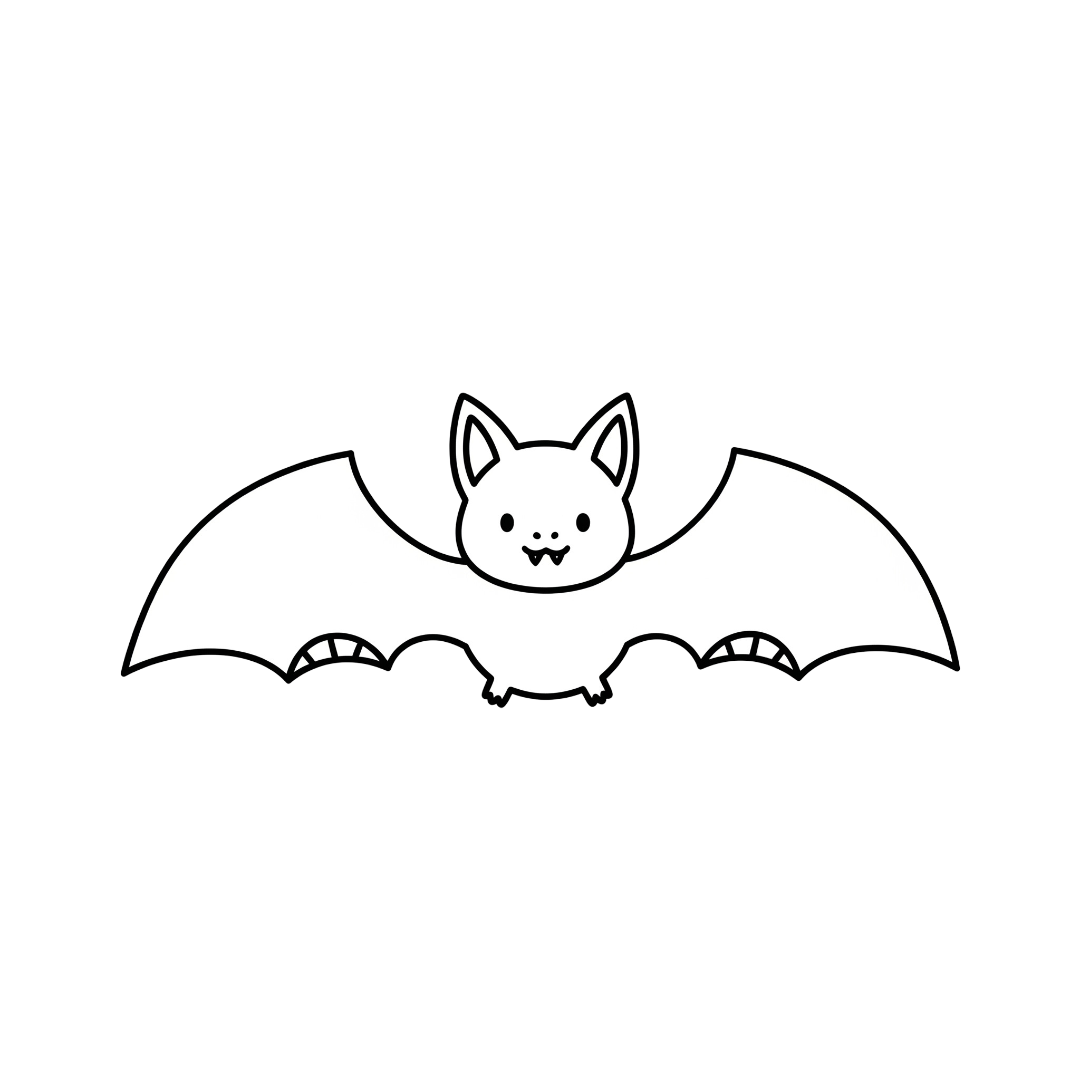
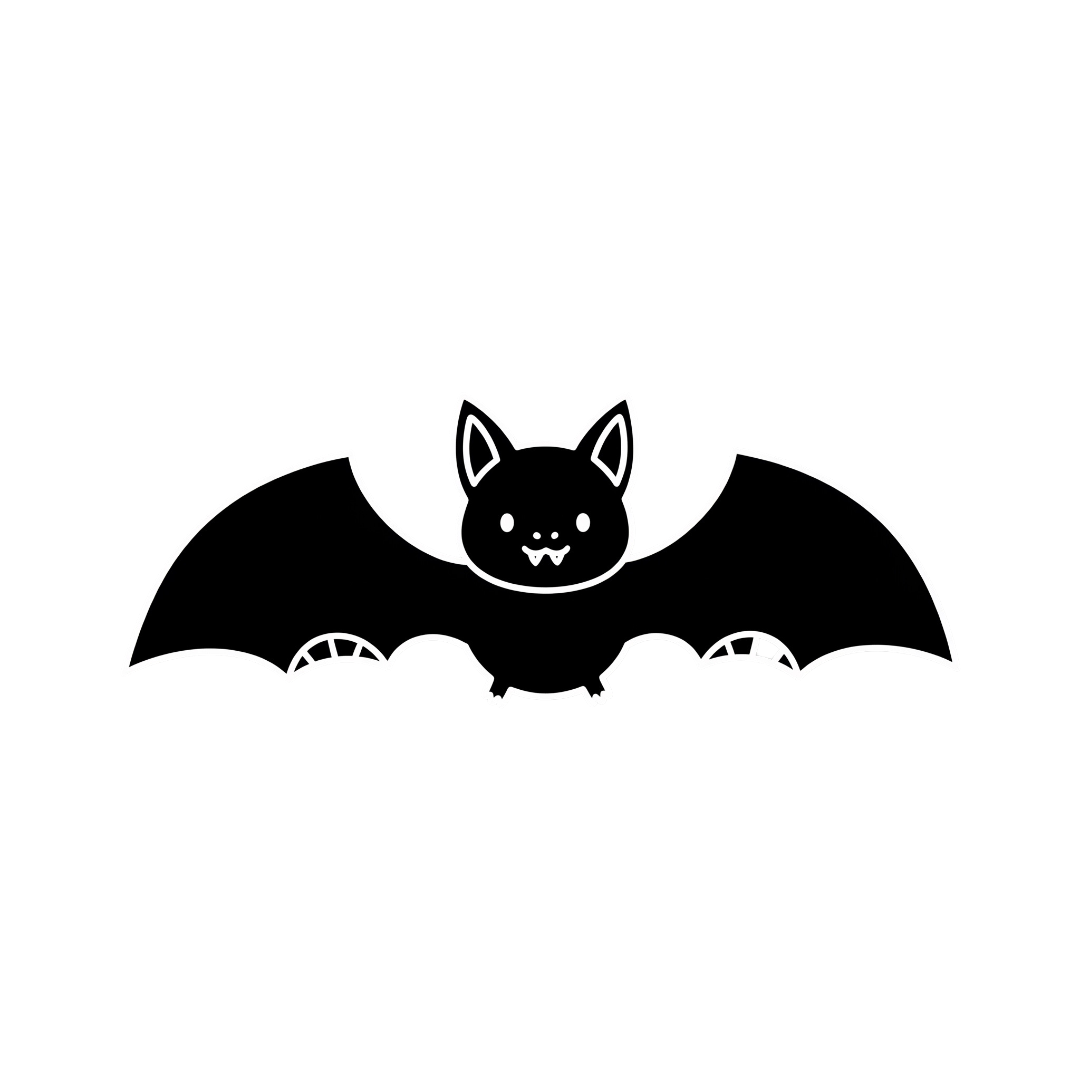
adiciona morcegos

Changed region(s): [[0.0917, 0.3667, 0.8861, 0.6722]]

diff --git a/calculo-soro.html b/calculo-soro.html
@@ -7,84 +7,25 @@
     <title>Cálculo do soro</title>
 </head>
 <body>
+    
     <main>
-        <h1 class="title">PROFILAXIA DA RAIVA HUMANA</h1>
+        <h1 class="title">CÁLCULO DO SORO</h1>
         <section class="form-container">
             
             <form id="caso" method="get">
-                <fieldset id="animal-agressor">
-                    <legend>ANIMAL AGRESSOR</legend>
-                    <div class="choice">  
-                        <input id="cao-gato-sem-sinais" type="radio" name="animal-agressor" value="cao-gato-sem-sinais">
-                        <label for="cao-gato-sem-sinais"><b>CÃO OU GATO</b> - ANIMAL PASSÍVEL DE OBSERVAÇÃO POR 10 DIAS E SEM SINAIS SUGESTIVOS DE RAIVA</label>
-                    </div>
-                    
-                    <div class="choice">
-                        <input id="cao-gato-com-sinais" type="radio" name="animal-agressor" value="cao-gato-com-sinais">
-                        <label for="cao-gato-com-sinais"><b>CÃO OU GATO</b> - ANIMAL NÃO PASSÍVEL DE OBSERVAÇÃO POR 10 DIAS OU COM SINAIS SUGESTIVOS DE RAIVA</label>
-                    </div>
+                <label for="tipoSoro">Tipo de soro:</label>
+                    <select id="tipoSoro">
+                    <option value="heterologo">Heterólogo (animal)</option>
+                    <option value="homologo">Homólogo (humano)</option>
+                    </select>
 
-                    <div class="choice">
-                        <input id="interesse-economico" type="radio" name="animal-agressor" value="interesse-economico">
-                        <label for="interesse-economico"><b>MAMÍFERO DOMÉSTICO DE INTERESSE ECONÔMICO</b> (bovídeos, equídeos, caprinos, suínos e ovinos)</label>
-                    </div>
+                    <label for="peso">Peso do paciente (kg):</label>
+                    <input type="number" id="peso" placeholder="Digite o peso em kg" required>
 
-                    <div class="choice">
-                        <input id="mamiferos-silvestres" type="radio" name="animal-agressor" value="mamiferos-silvestres">
-                        <label for="mamiferos-silvestres"><b>MAMÍFEROS SILVESTRES</b> (ex.: raposa, macaco, sagui)</label>
-                    </div>
+                    <button onclick="calcularSoro()">Calcular</button>
 
-                    <div class="choice">
-                        <input id="morcegos" type="radio" name="animal-agressor" value="morcegos">
-                        <label for="morcegos"><b>MORCEGOS</b></label>
-                    </div>
-                    
+                    <div class="result" id="resultado"></div>
                 </fieldset>
-                <fieldset id="tipo-exposicao">
-                    <legend>TIPO DE EXPOSIÇÃO</legend>
-                    <div class="choice">
-                        <input id="contato-indireto" type="radio" name="exposicao" value="contato-indireto">
-                        <label for="contato-indireto"><b>CONTATO INDIRETO</b></label>
-                        <details>
-                            <summary>Clique para ver mais informações</summary>
-                            <ul>
-                                <li>Tocar ou dar de comer para animais.</li>
-                                <li>Lambedura em pele íntegra.</li>
-                                <li>Contato em pele íntegra com secreções ou excreções de animal, ainda que raivoso ou de caso humano</li>
-                            </ul>
-                        </details>
-                    </div>
-                    <div class="choice">
-                        <input id="leve" type="radio" name="exposicao" value="leve">
-                        <label for="leve"><b>LEVE</b></label>
-                        <details>
-                            <summary>Clique para ver mais informações</summary>
-                            <ul>
-                                <li>Mordedura ou arranhadura superficial no tronco ou nos membros, exceto mãos e pés.</li>
-                                <li>Lambedura de lesões superficiais.</li>
-                            </ul>
-                        </details>
-                    </div>
-                    <div class="choice">
-                        <input id="grave" type="radio" name="exposicao" value="grave">
-                        <label for="grave"><b>GRAVE</b></label>
-                        <details>
-                            <summary>Clique para ver mais informações</summary>
-                            <ul>
-                                <li>Mordedura ou arranhadura nas mucosas, no segmento cefálico, nas mãos ou nos pés.</li>
-                                <li>Mordedura ou arranhadura múltiplas ou extensas, em qualquer região do corpo.</li>
-                                <li>Mordedura ou arranhadura profunda, mesmo que puntiforme.</li>
-                                <li>Lambedura de lesões profundas ou de mucosas, mesmo que intactas</li>
-                                <li>Mordedura ou arranhadura causado por mamífero silvestre</li>
-                            </ul>
-                        </details>
-                    </div>
-                </fieldset>
-                <div class="button-container">
-                    <button type="submit" class="submit-button">Enviar</button>
-                </div>
-                
-            </form>
         </section>
         <section id="resposta"></section>
     </main>

diff --git a/assets/webComponents.js b/assets/webComponents.js
@@ -1,0 +1,78 @@
+class RandomMovImage extends HTMLElement {
+    constructor() {
+        super();
+        this.attachShadow({ mode: 'open' });
+        this.intervalId = null;
+
+        this.shadowRoot.innerHTML = `
+            <style>
+                :host {
+                    display: block;
+                    position: fixed;
+                    z-index: -1;
+                    transition: top var(--move-duration, 5s) ease-in-out, 
+                                left var(--move-duration, 5s) ease-in-out;
+                }
+                img {
+                    width: 100%;
+                    height: 100%;
+                    pointer-events: none;
+                }
+            </style>
+            <img>
+        `;
+
+        this.imageElement = this.shadowRoot.querySelector('img');
+    }
+
+    static get observedAttributes() {
+        return ['src', 'width', 'height', 'move-interval'];
+    }
+
+    connectedCallback() {
+        this.startMovement();
+    }
+
+    disconnectedCallback() {
+        if (this.intervalId) {
+            clearInterval(this.intervalId);
+        }
+    }
+
+    attributeChangedCallback(name, oldValue, newValue) {
+        if (name === 'src' && this.imageElement) {
+            this.imageElement.src = newValue;
+        } else if (name === 'width' || name === 'height') {
+            this.style[name] = `${newValue}px`;
+        } else if (name === 'move-interval' && oldValue !== newValue) {
+            this.startMovement();
+        }
+    }
+
+    startMovement() {
+        if (this.intervalId) {
+            clearInterval(this.intervalId);
+        }
+
+        const moveInterval = parseInt(this.getAttribute('move-interval')) || 5000;
+        this.style.setProperty('--move-duration', `${moveInterval / 1000}s`);
+
+        this.moveRandomly();
+        this.intervalId = setInterval(() => this.moveRandomly(), moveInterval);
+    }
+
+    moveRandomly() {
+        const viewportWidth = window.innerWidth;
+        const viewportHeight = window.innerHeight;
+        const componentWidth = this.offsetWidth;
+        const componentHeight = this.offsetHeight;
+
+        const newLeft = Math.floor(Math.random() * (viewportWidth - componentWidth));
+        const newTop = Math.floor(Math.random() * (viewportHeight - componentHeight));
+
+        this.style.left = `${newLeft}px`;
+        this.style.top = `${newTop}px`;
+    }
+}
+
+customElements.define('random-mov-image', RandomMovImage);

diff --git a/index.html b/index.html
@@ -86,8 +86,18 @@
                 
             </form>
         </section>
-        <section id="resposta"></section>
+        <section class="resposta" id="resposta"></section>
+
+        
     </main>
+    <random-mov-image src="assets/img/morcego.png" width="90" height="90" move-interval="3000"></random-mov-image>
+    <random-mov-image src="assets/img/morcego.png" width="80" height="80" move-interval="3500"></random-mov-image>
+    <random-mov-image src="assets/img/morcego.png" width="100" height="100" move-interval="4000"></random-mov-image>
+    <random-mov-image src="assets/img/morcego.png" width="70" height="80" move-interval="2000"></random-mov-image>
+    <random-mov-image src="assets/img/morcego.png" width="80" height="100" move-interval="3000"></random-mov-image>
+    <random-mov-image src="assets/img/morcego.png" width="70" height="70" move-interval="3000"></random-mov-image>
+    <random-mov-image src="assets/img/morcego.png" width="100" height="80" move-interval="3000"></random-mov-image>
     <script src="assets/script.js"></script>
+    <script src="assets/webComponents.js"></script>
 </body>
 </html>

diff --git a/assets/style.css b/assets/style.css
@@ -1,11 +1,13 @@
 :root{
     --background: #BBBBBB;
     --submit-button: #45a049;
-    --fieldset-color:#FFFFFF; 
+    --fieldset-color:#FFFFFF;
+    --background-menu: #FFFFFF;
 }
 
 body{
     background-color: var(--background);
+    margin: 0;
 }
 main{
     max-width: 1600px;
